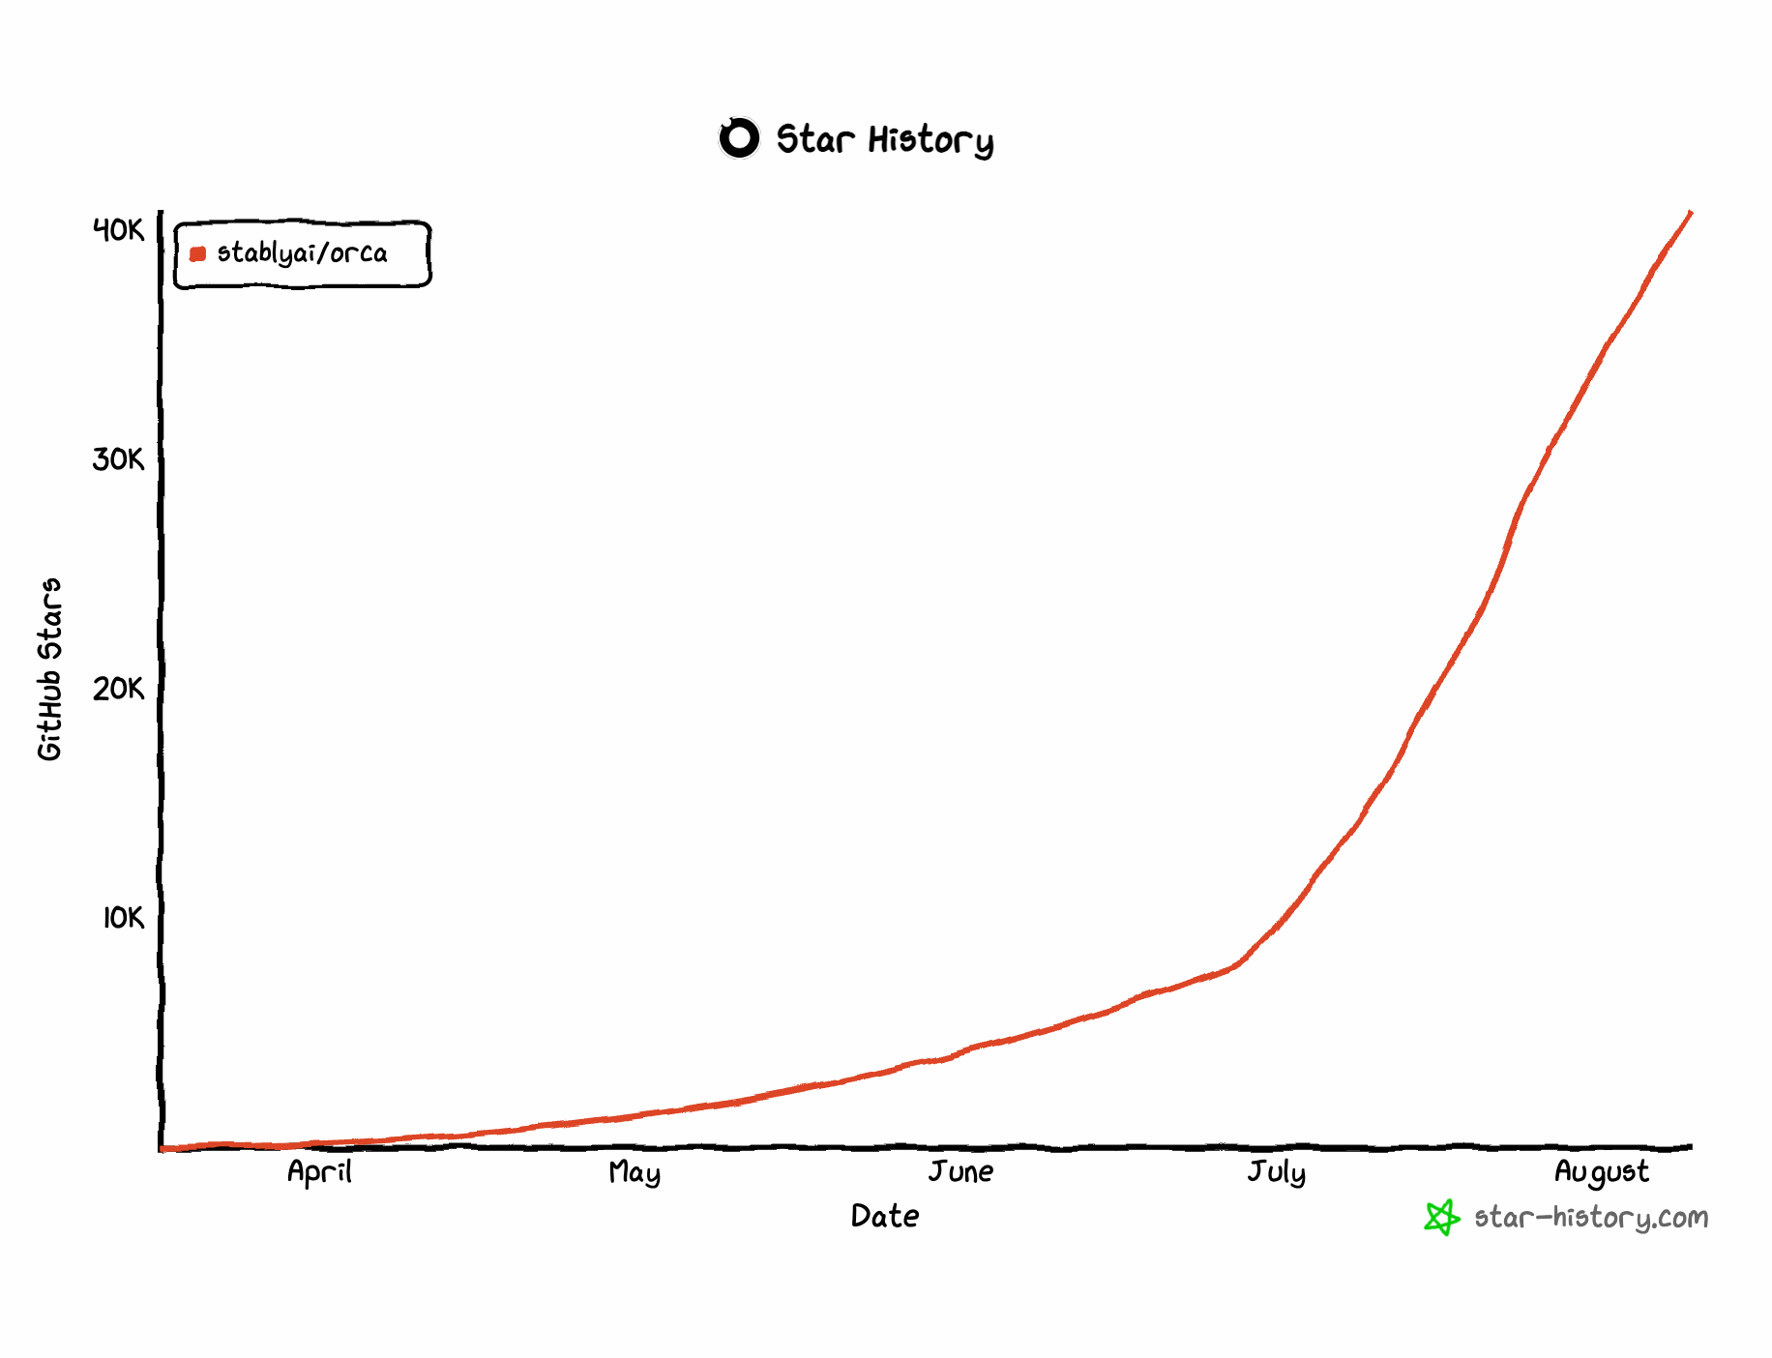
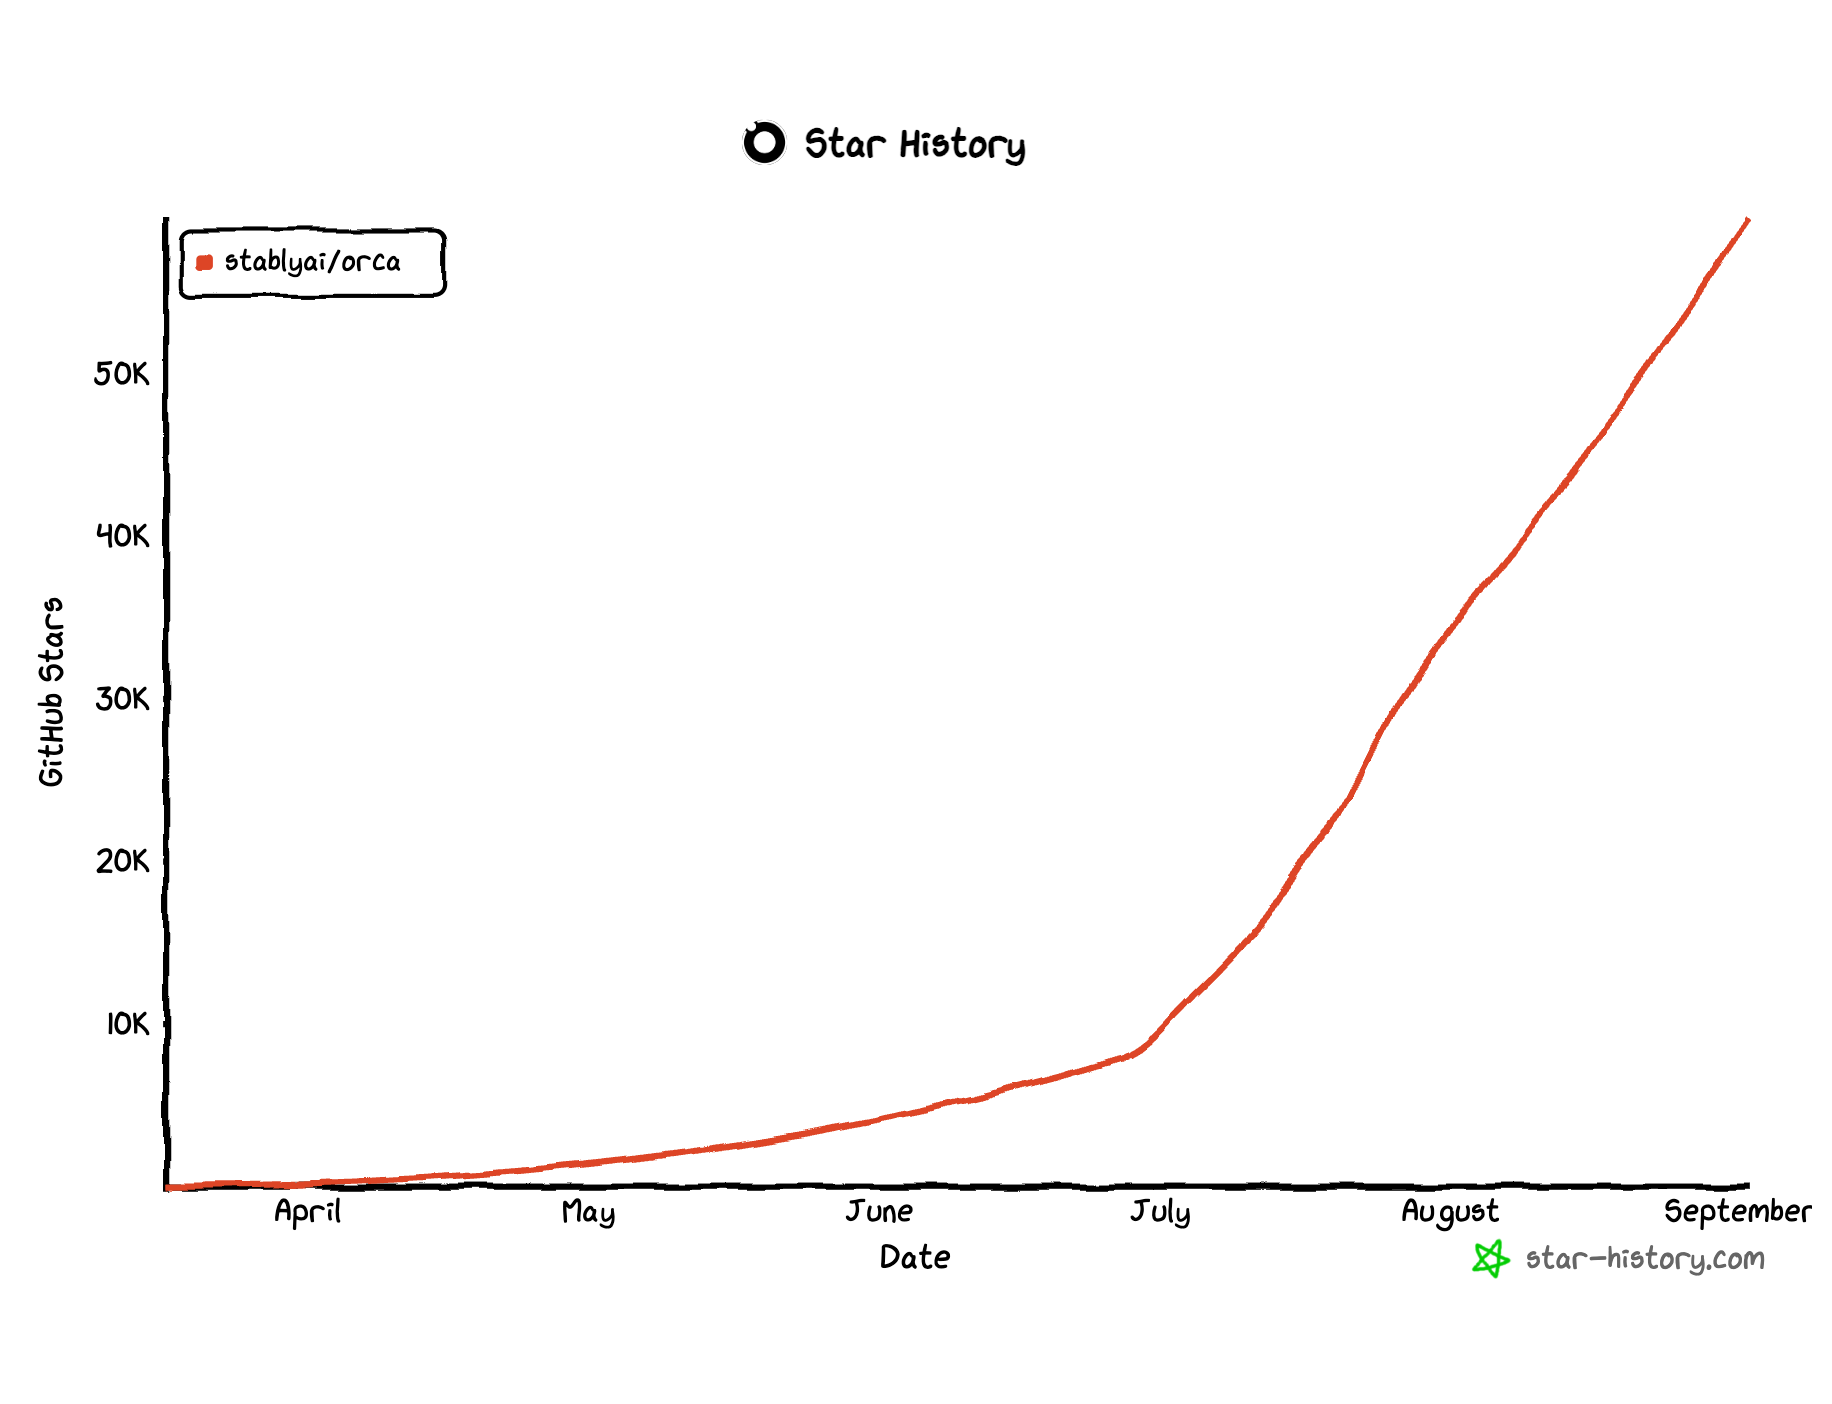
Update WeChat community to group 8 (#18095)
- Remove group 7 QR code asset
- Consolidate to group 8 only
- Update all localized documentation

Mirror-Of: 6dcab3060828e82bda628b0d2cbc663184785f9d

diff --git a/docs/readme/README.ko.md b/docs/readme/README.ko.md
@@ -238,9 +238,9 @@ yay -S stably-orca-bin
 
 - **Discord:** **[Discord](https://discord.gg/fzjDKHxv8Q)** 커뮤니티에 참여하세요.
 - **Twitter / X:** 업데이트와 공지는 **[@orca_build](https://x.com/orca_build)** 를 팔로우하세요.
-- **WeChat:** QR 코드를 스캔해 Manta 커뮤니티 WeChat 그룹 7에 참여하세요.
+- **WeChat:** QR 코드를 스캔해 Manta 커뮤니티 WeChat 그룹 8에 참여하세요.
 
-  <img src="../assets/wechat-qr-group7.jpg" alt="Manta 커뮤니티 WeChat 그룹 7 QR 코드" width="160" />
+  <img src="../assets/wechat-qr-group8.jpg" alt="Manta 커뮤니티 WeChat 그룹 8 QR 코드" width="160" />
 
 - **피드백과 아이디어:** 우리는 빠르게 출시합니다. 필요한 기능이 있나요? [새 기능을 요청](https://github.com/stablyai/orca/issues)하세요.
 - **개인정보 보호:** Manta가 수집하는 익명 사용 데이터와 수집 거부 방법은 [개인정보 및 텔레메트리 문서](https://www.manta.sh.cn/docs/telemetry)를 참고하세요.

diff --git a/docs/readme/README.fr.md b/docs/readme/README.fr.md
@@ -243,9 +243,9 @@ Associez-la à l'app de bureau pour surveiller et piloter vos agents depuis votr
 
 - **Discord :** Rejoignez la communauté sur **[Discord](https://discord.gg/fzjDKHxv8Q)**.
 - **Twitter / X :** Suivez **[@orca_build](https://x.com/orca_build)** pour les news et annonces.
-- **WeChat :** Scannez pour rejoindre le groupe WeChat 7 de la communauté Manta.
+- **WeChat :** Scannez pour rejoindre le groupe WeChat 8 de la communauté Manta.
 
-  <img src="../assets/wechat-qr-group7.jpg" alt="QR code WeChat groupe 7 de la communauté Manta" width="160" />
+  <img src="../assets/wechat-qr-group8.jpg" alt="QR code WeChat groupe 8 de la communauté Manta" width="160" />
 
 - **Feedback &amp; idées :** On ship vite. Il manque quelque chose ? [Demandez une feature](https://github.com/stablyai/orca/issues).
 - **Confidentialité :** Voir la [doc confidentialité &amp; télémétrie](https://www.manta.sh.cn/docs/telemetry) pour ce qu'Manta collecte en anonyme et comment désactiver la télémétrie.

diff --git a/README.md b/README.md
@@ -238,9 +238,8 @@ Pair with your desktop app to monitor and steer your agents from your phone.
 
 - **Discord:** Join the community on **[Discord](https://discord.gg/fzjDKHxv8Q)**.
 - **Twitter / X:** Follow **[@orca_build](https://x.com/orca_build)** for updates and announcements.
-- **WeChat:** Scan to join the Manta community WeChat group 7. If it is full, use group 8.
+- **WeChat:** Scan to join the Manta community WeChat group 8.
 
-  <img src="docs/assets/wechat-qr-group7.jpg" alt="WeChat group 7 QR code for the Manta community" width="160" />&nbsp;&nbsp;
   <img src="docs/assets/wechat-qr-group8.jpg" alt="WeChat group 8 QR code for the Manta community" width="160" />
 
 - **Feedback &amp; Ideas:** We ship fast. Missing something? [Request a new feature](https://github.com/stablyai/orca/issues).

diff --git a/docs/readme/README.zh-CN.md b/docs/readme/README.zh-CN.md
@@ -235,9 +235,8 @@ yay -S stably-orca-bin
 
 - **Discord:** 加入 **[Discord](https://discord.gg/fzjDKHxv8Q)** 社区。
 - **Twitter / X:** 关注 **[@orca_build](https://x.com/orca_build)** 获取更新和公告。
-- **微信:** 扫码加入 Manta 社区微信第 7 群。如果第 7 群已满，请使用第 8 群。
+- **微信:** 扫码加入 Manta 社区微信第 8 群。
 
-  <img src="../assets/wechat-qr-group7.jpg" alt="Manta 社区微信第 7 群二维码" width="160" />&nbsp;&nbsp;
   <img src="../assets/wechat-qr-group8.jpg" alt="Manta 社区微信第 8 群二维码" width="160" />
 
 - **反馈与想法:** 我们发布很快。缺少什么功能？[提交功能请求](https://github.com/stablyai/orca/issues)。
